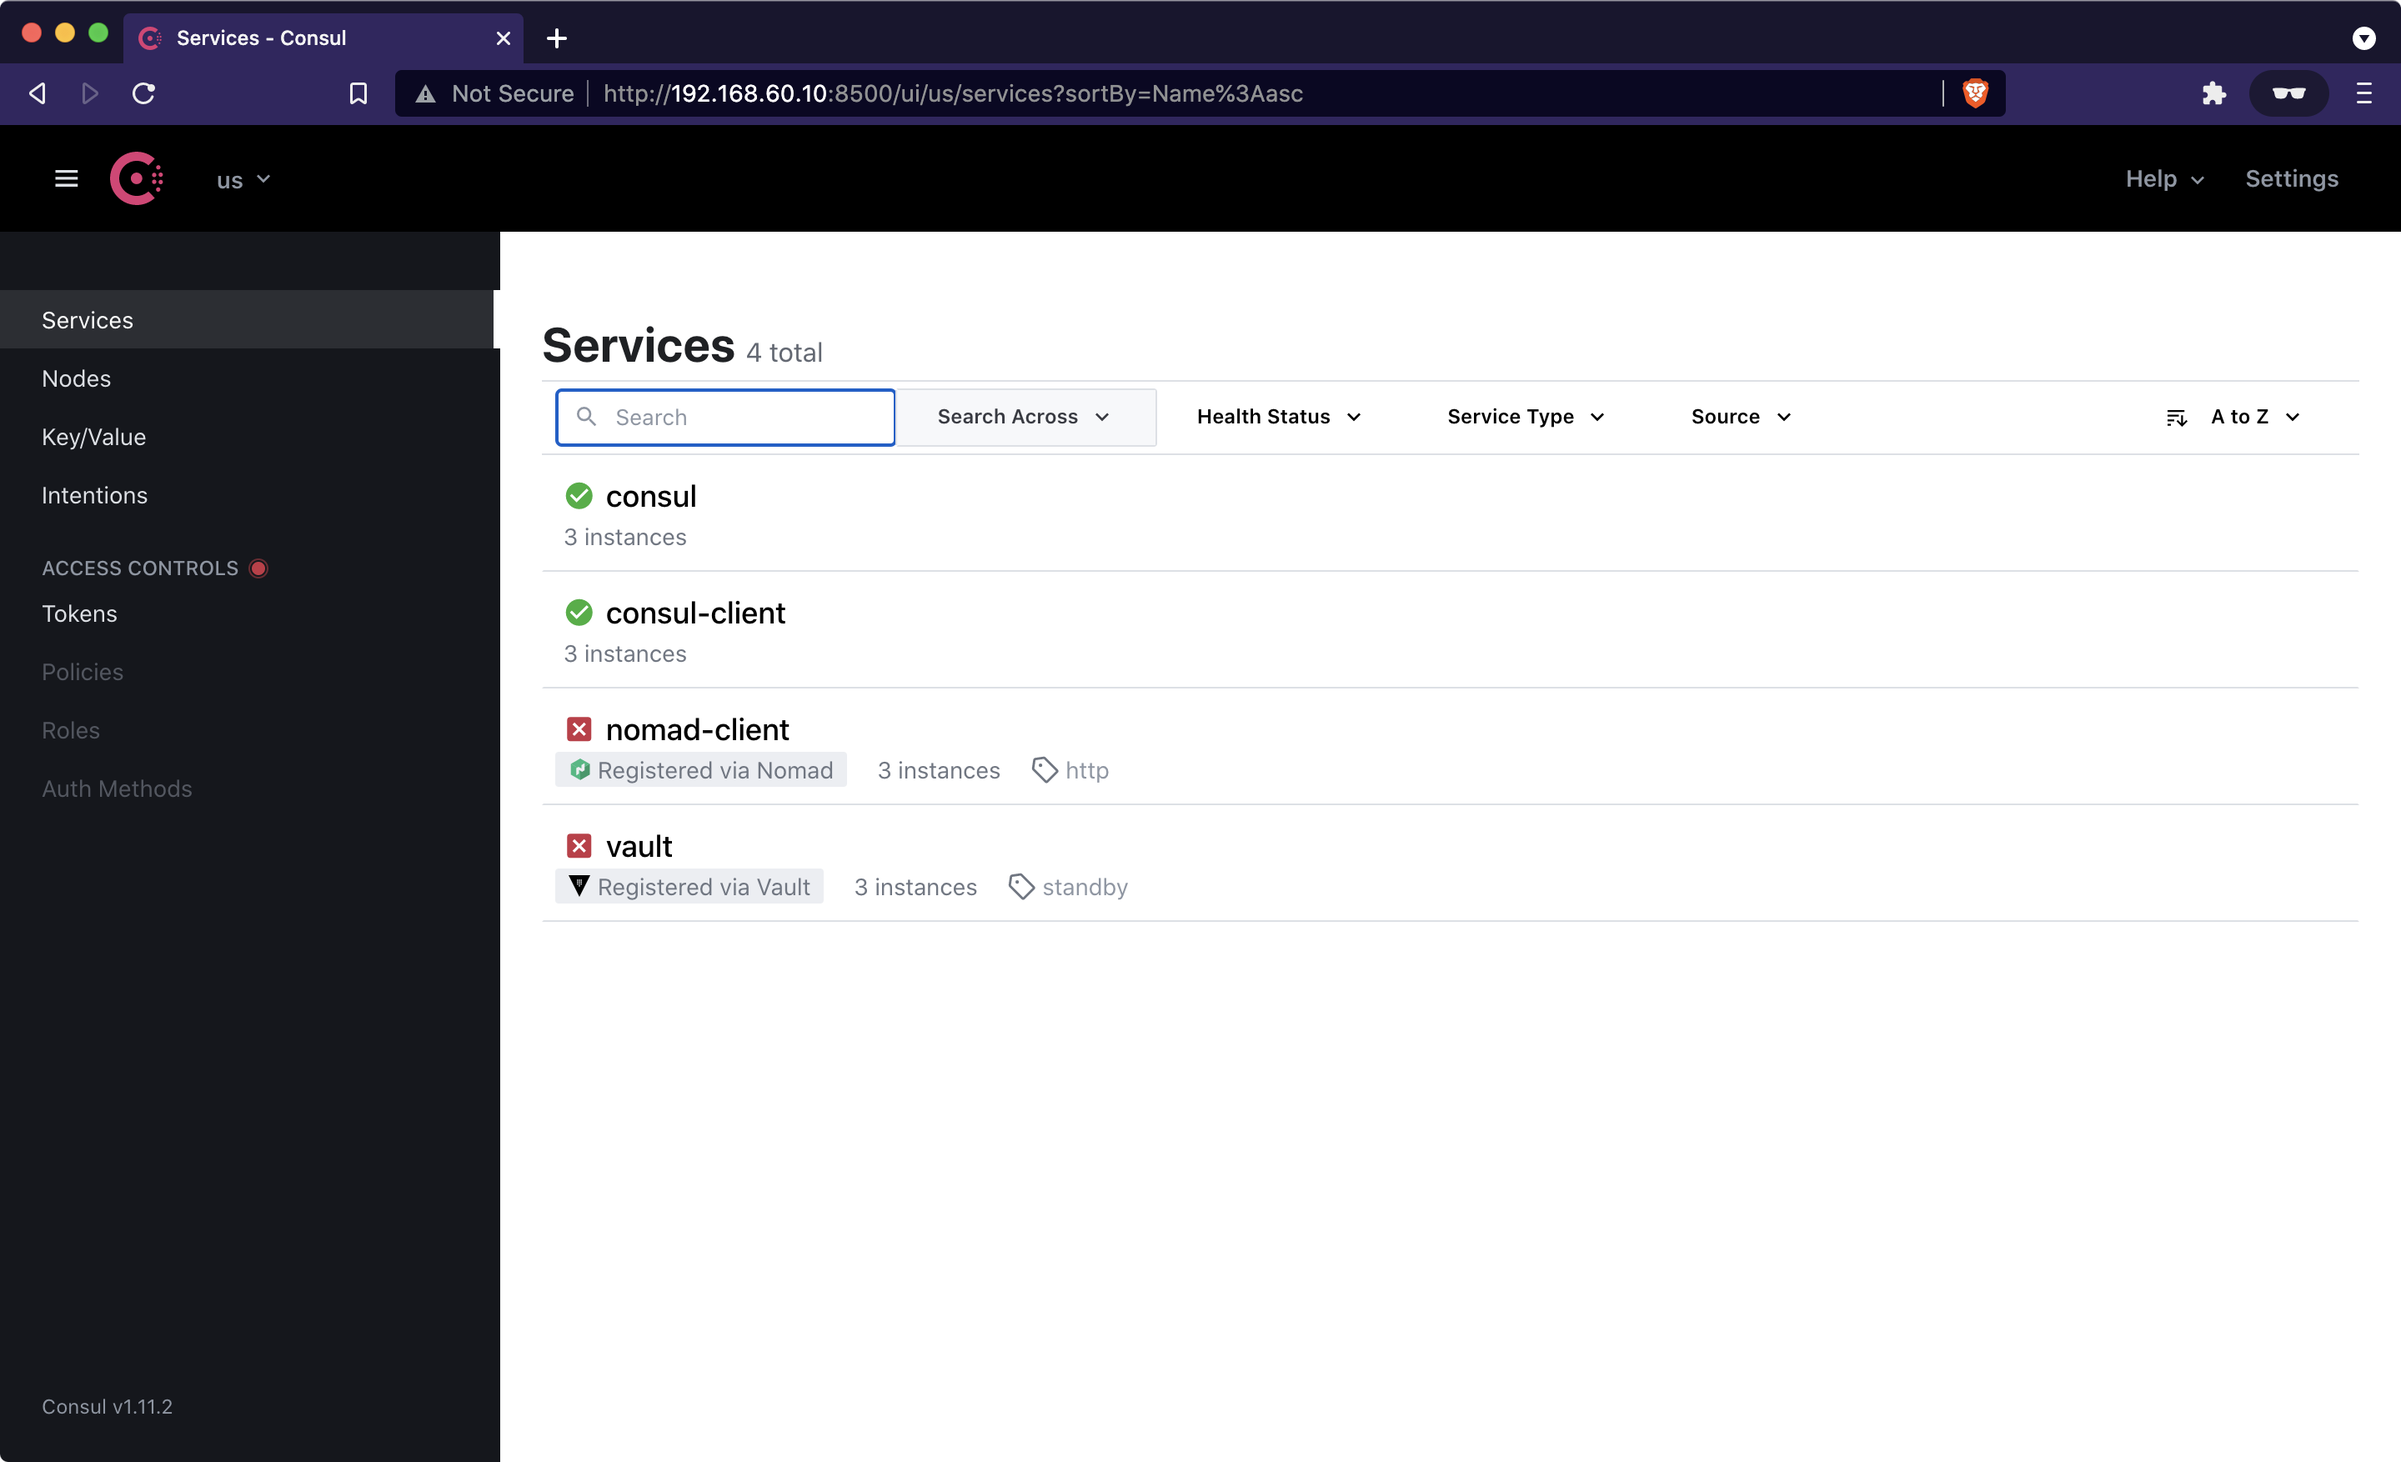
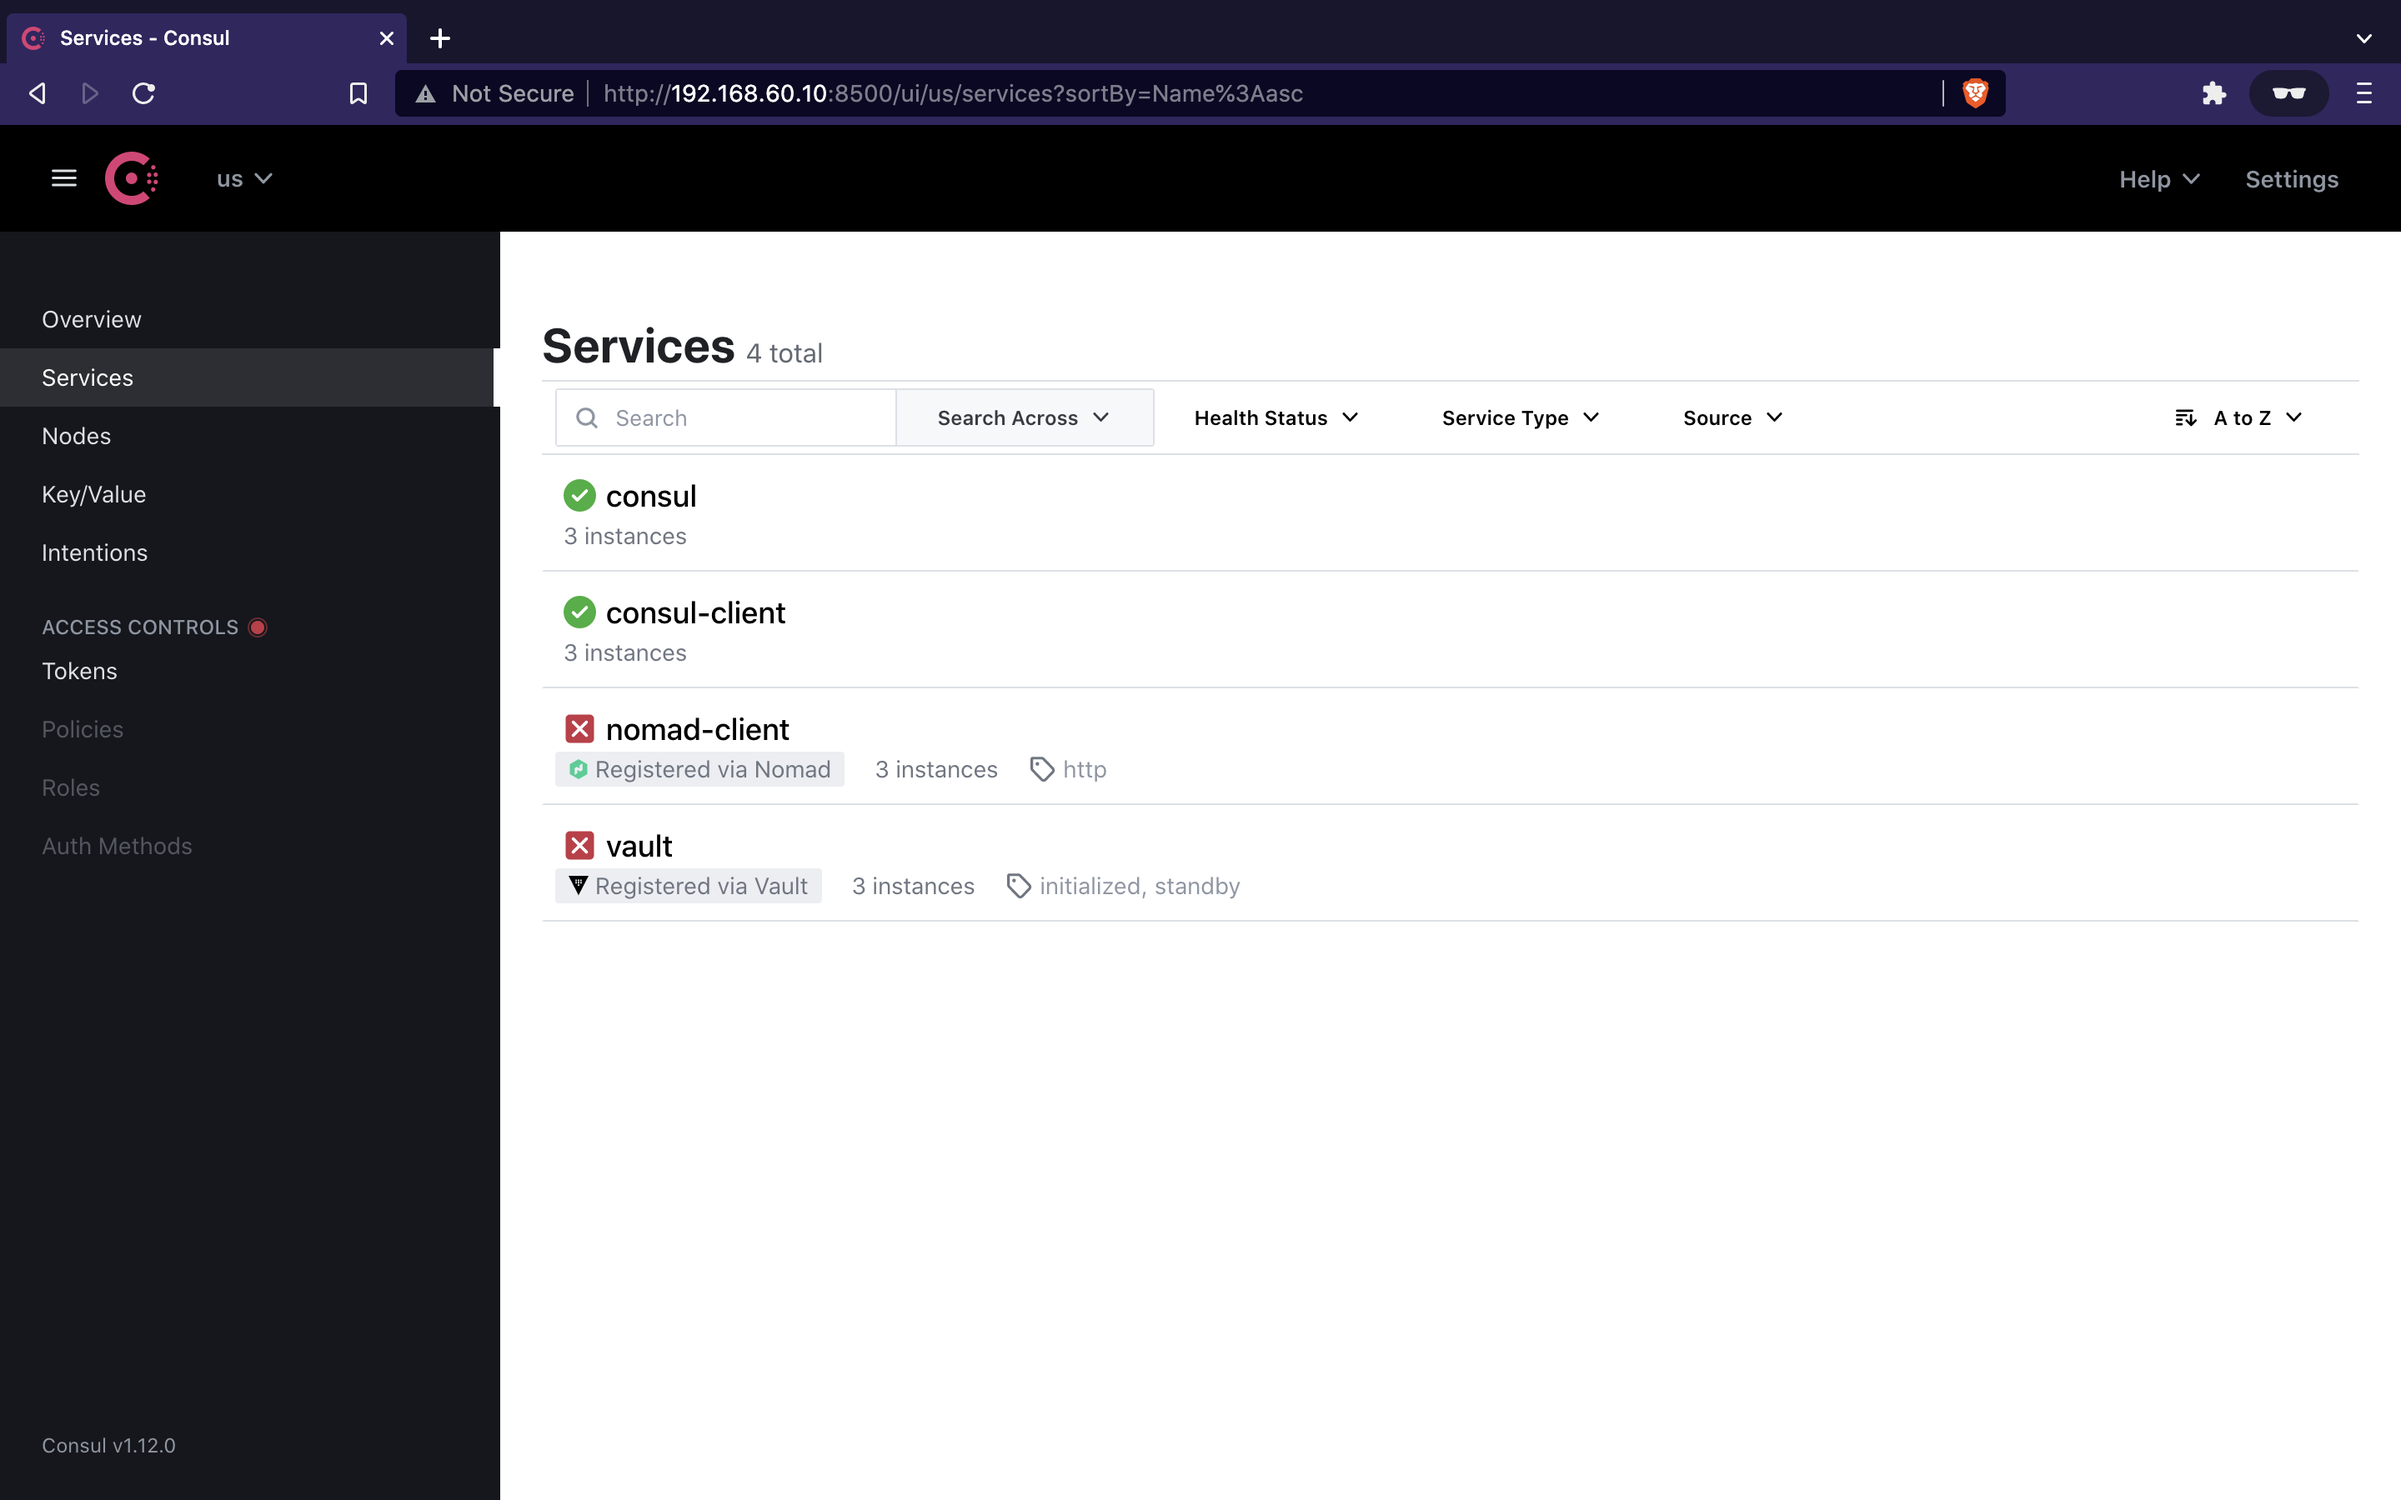
docs: Update screenshots with latest versions

diff --git a/README.md b/README.md
@@ -1,8 +1,8 @@
 # HashiBox
 
 HashiBox is a local environment to simulate a highly-available cloud with
-[Consul](https://www.consul.io/), [Vault](https://www.vaultproject.io/), and
-[Nomad](https://www.nomadproject.io/).
+[Consul](https://www.consul.io/), [Nomad](https://www.nomadproject.io/), and
+[Vault](https://www.vaultproject.io/).
 
 It also installs [Docker](https://www.docker.com/) for running Nomad's jobs
 inside containers. It leverages [Vagrant](https://www.vagrantup.com/) for
@@ -51,9 +51,13 @@ tested against real-life environments as close as possible.
 
 ![Nomad Clients](./assets/nomad-clients.png)
 
+![Nomad Topology](./assets/nomad-topology.png)
+
 ### Vault
 
 ![Vault Secrets](./assets/vault-secrets.png)
+
+![Vault Access](./assets/vault-access.png)
 
 ## License
 
